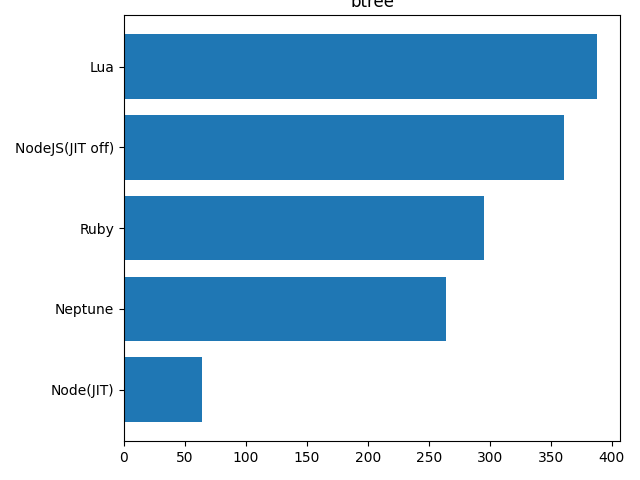
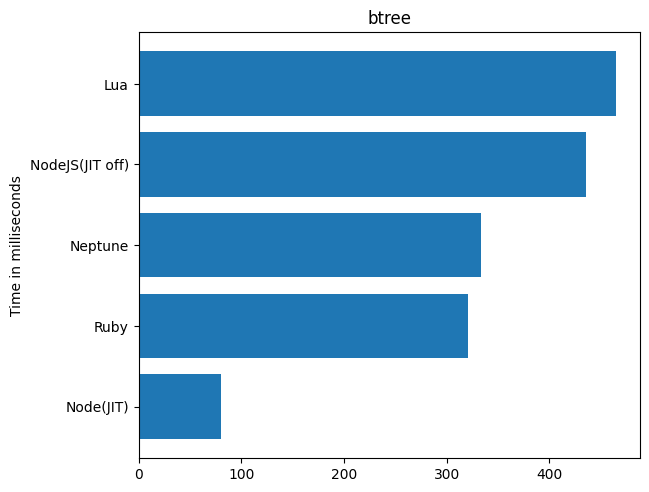
Fix graph

Changed region(s): [[0.0312, 0.0, 1.0, 1.0], [0.0, 0.3438, 0.0312, 0.6562]]

diff --git a/bench/bench.py b/bench/bench.py
@@ -26,5 +26,5 @@ for benchmark in benchmarks:
     plt.tight_layout()
     ax.set_title(benchmark)
     plt.ylabel('Time in milliseconds')
-    plt.savefig(f'{benchmark}.png')
+    plt.savefig(f'{benchmark}.png', bbox_inches="tight")
     pass
